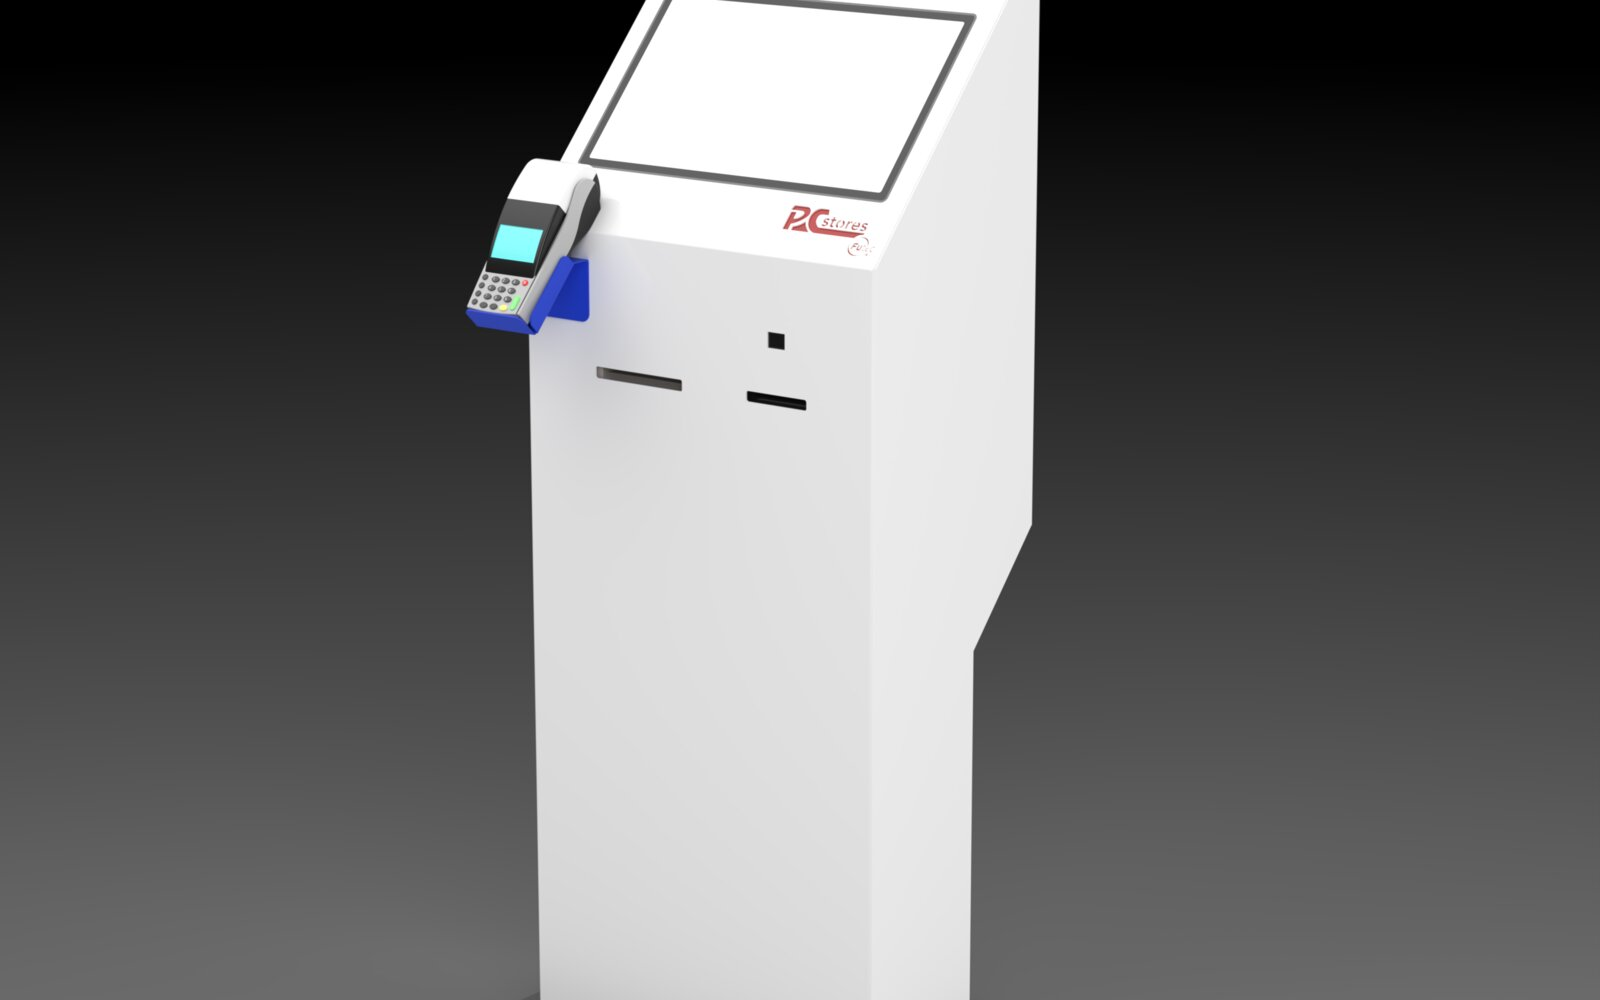
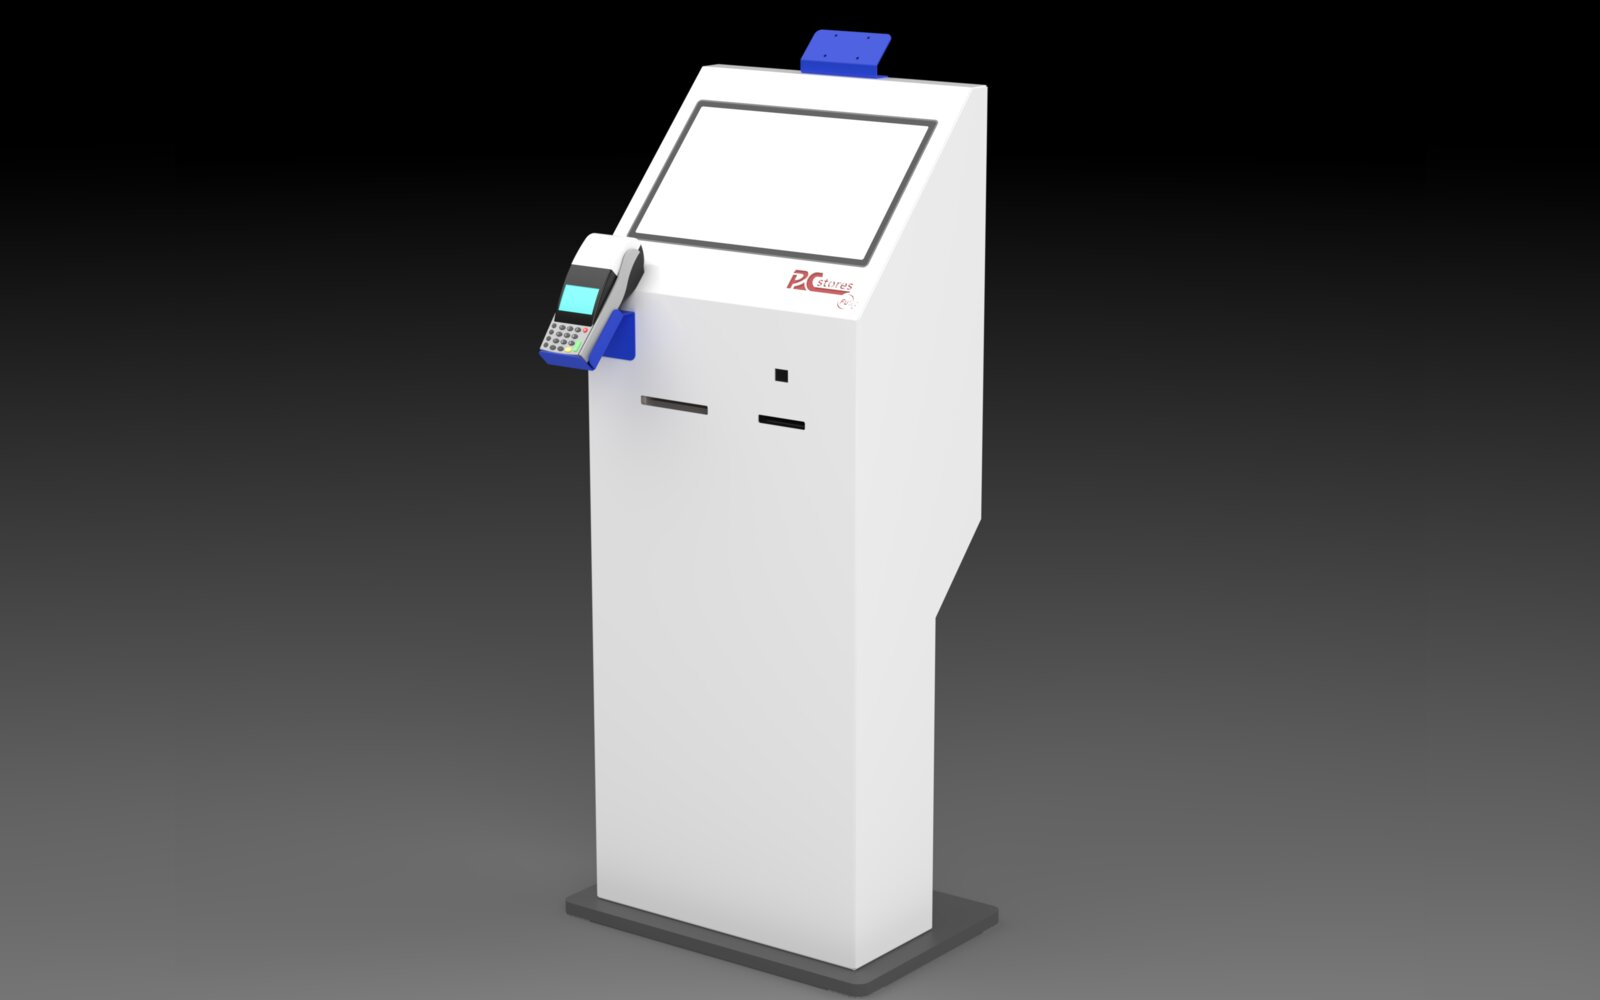
Add files via upload

Changed region(s): [[0.2812, 0.0, 0.6562, 1.0]]

diff --git a/index.html b/index.html
@@ -455,9 +455,10 @@ const PROJECTS = [
     "Interior hardware — formed device brackets and drawer-slide tray",
     "Rear service access — cam lock and concealed hinges",
     "Early design iteration — one of several concepts developed toward the final product",
-    "Client branding integrated into the fascia"
+    "Client branding integrated into the fascia",
+    "CNC nesting — flat patterns for both kiosk sizes on 2 mm galvanized sheet"
   ],
-  gallery:6,
+  gallery:7,
   meta:{Role:"Mechanical designer", Employer:"SteelX Jordan", Client:"Public-sector self-service program", Scope:"Concept → drawings → 70-unit production"},
   overview:"A fleet of self-service and point-of-sale kiosks commissioned by a public-sector client — a product that had to survive daily public use, protect the payment and printing hardware inside, and be buildable in series on the SteelX floor. The design was iterated through multiple concepts and nine drawing revisions before production release.",
   approach:"The enclosure was engineered as a 2 mm powder-coated steel body over a welded 25×50 rectangular-tube internal frame, ballasted on a 20 mm plate foundation for tip-over stability. Every device got a purpose-designed mount: a formed holder for the POS terminal, a camera bracket, a scanner window, receipt slots, and a thermal printer carried on a lockable slide-out tray for fast servicing. Two ergonomic variants were developed — the standard unit and a lower, reach-compliant version for wheelchair users — and full fabrication drawing packages were released for laser cutting, bending, powder coating and assembly.",
@@ -501,7 +502,16 @@ grid.innerHTML=PROJECTS.map((p,i)=>`
 const DOCS = [
   {type:"Drawing Package", title:"Hummus Grinder Machine (50–70 kg) — Assembly Drawing & BOM",
    desc:"ISO A2 assembly drawing of a vertical hummus grinder designed at TAYYEM: chassis and pot exploded views with fully itemized bills of materials.",
-   file:"files/hummus-grinder-drawing.pdf"}
+   file:"files/hummus-grinder-drawing.pdf"},
+  {type:"Drawing Package", title:"Self-Service Kiosk — Concept Release, REV 1",
+   desc:"First-revision fabrication drawing of the SteelX self-service kiosk: general arrangement, 40° screen angle, 2 mm body and 20 mm foundation plates.",
+   file:"files/ms-016-drawing-rev1.pdf"},
+  {type:"Drawing Package", title:"Self-Service Kiosk (Large) — Production Release, REV 9",
+   desc:"Final production drawing of the large kiosk variant: all elevations, device callouts (POS, scanner, camera), service door hardware and ergonomic details.",
+   file:"files/ms-016-drawing-rev9.pdf"},
+  {type:"Drawing Package", title:"Kiosk Internal Frame — Tube Cut List & Section",
+   desc:"Welded 25×50×1.8 rectangular-tube skeleton of the kiosk: itemized cut list with lengths and section view of the frame assembly.",
+   file:"files/ms-016-frame.pdf"}
 ];
 const libGrid=document.getElementById('lib-grid');
 if(DOCS.length){